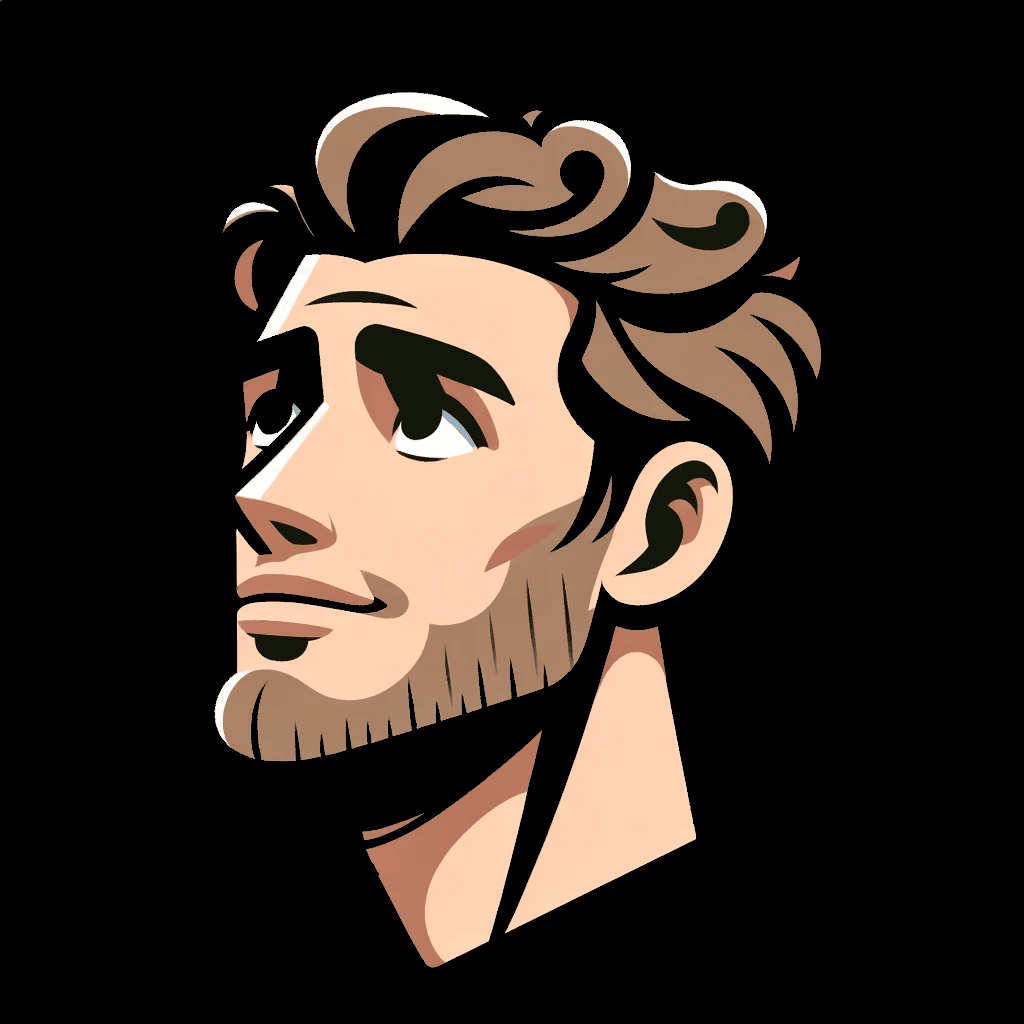
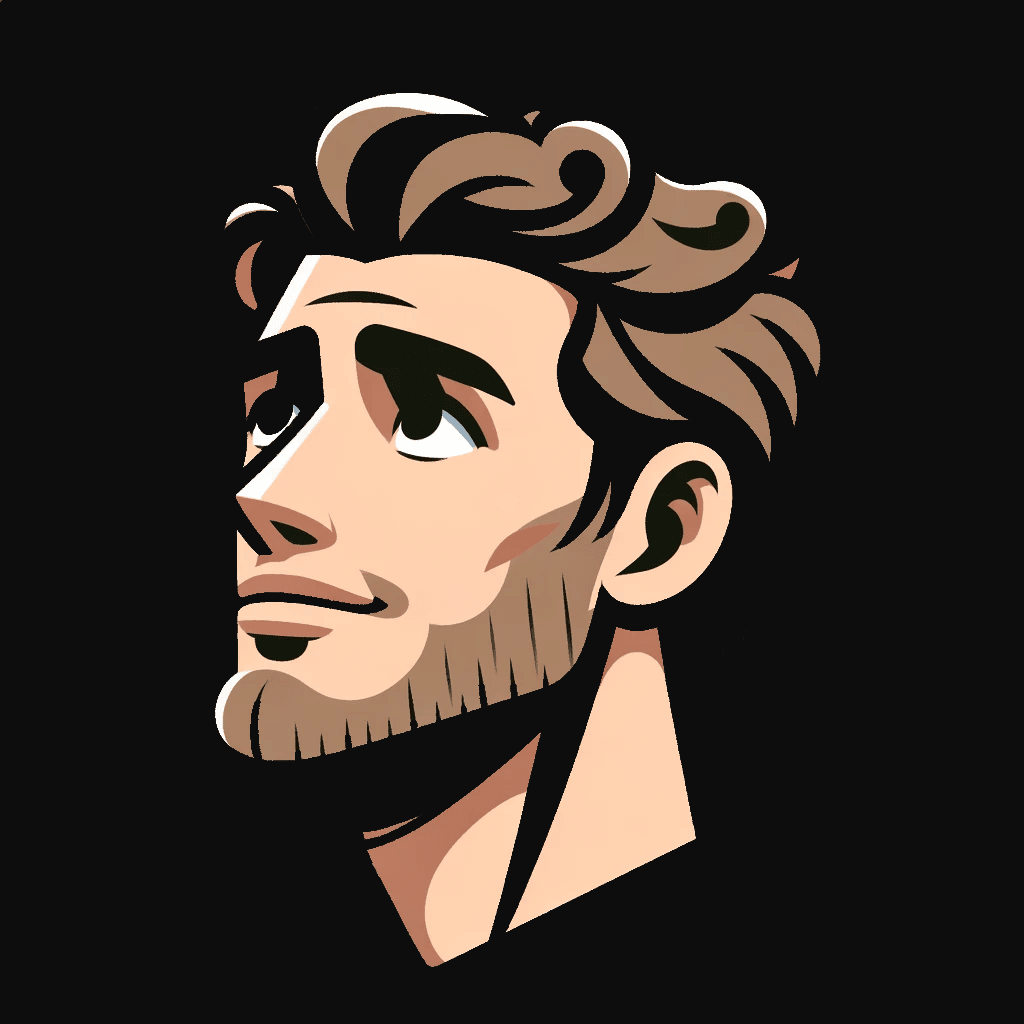
fixed shifting content on buttons bug, compressed images

Changed region(s): [[0.375, 0.6875, 0.4062, 0.7188]]

diff --git a/portfolio_stephanos/src/app/page.js b/portfolio_stephanos/src/app/page.js
@@ -7,11 +7,11 @@ import {
   CodeOutlined,
   ProfileOutlined,
   MailFilled,
-  GithubFilled,
-  LinkedinFilled,
   HomeFilled,
-  ProjectOutlined
+  ProjectOutlined,
 } from "@ant-design/icons";
+import { siLinkedin, siGithub } from "simple-icons";
+import createColoredSvgUrl from "@/utils/coloredSvg";
 
 export default function App() {
   const [current, setCurrent] = useState("home");
@@ -43,89 +43,97 @@ export default function App() {
   };
 
   return (
-    <div className="p-20 bg-[#000000] flex justify-center items-center">
-      <div className="w-10/12 p-6 shadow-2xl flex flex-col justify-center">
+    <div className="p-20 bg-[#0d0d0d] flex justify-center items-center">
+      <div className="w-2/3 p-6 shadow-2xl flex flex-col justify-center">
         <div className="flex flex-col">
           <NavBar changeTab={changeTab} />
 
           <div className="flex flex-row">
-            <Sidebar/>
-            <div className={`content-animate ${animate ? "content-exit-active" : ""} w-full`}>
+            <Sidebar />
+            <div
+              className={`content-animate ${
+                animate ? "content-exit-active" : ""
+              } w-full`}
+            >
               {renderContent()}
             </div>
           </div>
-
-
         </div>
-
       </div>
     </div>
   );
 }
 
-const NavBar = ({ changeTab }) => {
-  return (
-    <div className="flex flex-row h-10">
-      <div
-        className="text-3xl cursor-pointer w-1/12"
-        onClick={() => changeTab('home')}
-      >
-        <HomeFilled />
-      </div>
-      <a
-        href="mailto:ioannoustephanos2002@gmail.com" // Using mailto protocol
-        className="text-sm bg-[#000000] text-white px-1.5 ml-8 h-8 flex items-center justify-center gap-2 button-hover ml-10"
-        style={{ borderRadius: '0', textDecoration: 'none' }}
-      >
-        <MailFilled />
-        ioannoustephanos2002@gmail.com
-      </a>
-      <div className="flex flex-row gap-0.5 ml-auto">
-        <NavbarButton icon={ProfileOutlined} onClick={() => changeTab('experience')}>Experience</NavbarButton>
-        <NavbarButton icon={CodeOutlined} onClick={() => changeTab('tech')}>Tech</NavbarButton>
-        {/* <NavbarButton icon={ProjectOutlined} onClick={() => changeTab('projects')}>Projects</NavbarButton> */}
-      </div>
-    </div>
-  );
-};
-
-const Sidebar = () => {
-  return (
-    <div className="w-1/12 flex flex-col gap-3 h-full">
-      <a
-        href="https://www.linkedin.com/in/stephanos-ioannou-a6b41a25b/"
-        target="_blank"
-        className="text-3xl mt-72"
-      >
-        <LinkedinFilled />
-      </a>
-      <a
-        href="https://github.com/Stephanos2911"
-        target="_blank"
-        className="text-3xl"
-      >
-        <GithubFilled />
-      </a>
-    </div>
-  );
-};
-
-const Projects = () => {
-  return (
-    <div>
-    </div>
-  );
-};
-
-const NavbarButton = ({ onClick, icon: Icon, children, className }) => {
-  return (
-    <button
-      onClick={onClick}
-      className={`bg-[#000000] text-base text-white px-1.5 h-8 flex items-center justify-center gap-2 button-hover ${className}`}
-      style={{ borderRadius: '0' }}
+const NavBar = ({ changeTab }) => (
+  <div className="flex flex-row">
+    <div
+      className="text-3xl cursor-pointer w-1/12 flex justify-center items-center"
+      onClick={() => changeTab("home")}
+      style={{ width: "1.75rem", height: "1.75rem" }} // Ensure consistent dimensions
     >
-      {Icon && <Icon />}
-      {children}
-    </button>
-  );
-};
+      <HomeFilled />
+    </div>
+    <a
+      href="mailto:ioannoustephanos2002@gmail.com" // Using mailto protocol
+      className="text-sm bg-[#0d0d0d] text-white px-1.5 ml-24 h-8 flex items-center justify-center gap-2 button-hover"
+    >
+      <MailFilled />
+      ioannoustephanos2002@gmail.com
+    </a>
+
+    <div className="flex flex-row gap-0.5 ml-auto">
+      <NavbarButton
+        icon={ProfileOutlined}
+        onClick={() => changeTab("experience")}
+      >
+        Experience
+      </NavbarButton>
+      <NavbarButton icon={CodeOutlined} onClick={() => changeTab("tech")}>
+        Tech
+      </NavbarButton>
+      {/* <NavbarButton icon={ProjectOutlined} onClick={() => changeTab('projects')}>Projects</NavbarButton> */}
+    </div>
+  </div>
+);
+
+const Sidebar = () => (
+  <div className="w-1/12 flex flex-col gap-4 h-full">
+    <a
+      href="https://www.linkedin.com/in/stephanos-ioannou-a6b41a25b/"
+      target="_blank"
+      className="text-3xl mt-72"
+    >
+      <img
+        key={"linkedin"}
+        className="w-7 h-7" // Tailwind CSS for width and height 30px
+        src={createColoredSvgUrl(siLinkedin, "#ffffff")}
+        alt={`LinkedIn Logo`}
+      />
+    </a>
+    <a
+      href="https://github.com/Stephanos2911"
+      target="_blank"
+      className="text-3xl"
+    >
+      <img
+        key={"github"}
+        className="w-7 h-7" // Tailwind CSS for width and height 30px
+        src={createColoredSvgUrl(siGithub, "#ffffff")}
+        alt={`Github Logo`}
+      />
+    </a>
+  </div>
+);
+
+const Projects = () => <div></div>;
+
+const NavbarButton = ({ onClick, icon: Icon, children, className = "" }) => (
+  <button
+    onClick={onClick}
+    className={`bg-[#0d0d0d] text-base text-white px-1.5 h-8 flex items-center justify-center gap-2 button-hover ${className}`}
+    style={{ borderRadius: "0" }}
+  >
+    {Icon && <Icon />}
+    {children}
+  </button>
+);

diff --git a/portfolio_stephanos/src/app/globals.css b/portfolio_stephanos/src/app/globals.css
@@ -20,8 +20,9 @@
 
 body {
   font-family: 'Arial', sans-serif;
-  background-color: #000000;
+  background-color: #0d0d0d;
   color: #ffff;
+  overflow-y: scroll;
 }
 
 .button-hover {
@@ -29,7 +30,7 @@ body {
 }
 
 .button-hover:hover {
-  background-color: var(--green);
+  background-color: #008080;
   transform: rotate(-5deg) scale(1.05); /* Tilt and zoom */
 }
 
@@ -191,12 +192,13 @@ body {
 
 
 .job-entry {
-  transition: transform 0.3s ease;
+  transition: transform 0.3s ease, background-color 0.3s ease, color 0.3s ease;
+  will-change: transform, background-color, color; /* Ensures smooth animation */
 }
 
 
 .JobEntryContainer:hover .job-entry{
-  background-color: rgba(0, 0, 0, 0.1); /* Apply gray modal overlay to all elements */
+  background-color: #0d0d0d;
   color: #666;
   
 }
@@ -213,9 +215,10 @@ body {
 }
 
 .JobEntryContainer .job-entry:hover{
-  background-color:  #1a1d26;
+  background-color:  #1a1a1a;
   color: white;
   transform: scale(1.01);
+  text-shadow: none;
 }
 
 /* Ensures all job-entry elements have a consistent grayish look on hover of the container, excluding the one being directly hovered */

diff --git a/portfolio_stephanos/src/app/home.js b/portfolio_stephanos/src/app/home.js
@@ -14,8 +14,8 @@ const HomeSection = () => {
                 <h3 className="fadeInUp h3FadeInUp mt-12 text-sm">Stephanos Ioannou, Junior Software Developer from Rotterdam, the Netherlands dedicated to crafting efficient and future-proof software solutions. With a keen interest in modern technologies, I am continuously developing my skills to build innovative and robust applications.</h3>
             </div>
 
-            <div className="w-full flex justify-center">
-                <Image src={HomeImage} priority={true} alt="Drawing of Stephanos" className=''></Image>
+            <div className="w-full flex justify-center ">
+                <Image src={HomeImage} width={1024} height={1024} priority={true} alt="Drawing of Stephanos" className=''></Image>
             </div>
         </div>
     );

diff --git a/portfolio_stephanos/src/app/experience.js b/portfolio_stephanos/src/app/experience.js
@@ -93,7 +93,7 @@ const ExperienceSection = () => {
 
 const JobEntry = ({ period, position, company, link, description, technologies }) => {
     return (
-        <a href={link} target="_blank" className="job-entry shadow-md text-white group">
+        <a href={link} target="_blank" className="job-entry text-white group">
             <div className="flex flex-row m-4">
                 <div className="w-1/4 flex justify-center">
                     <h2 className="text-xs font-medium mt-1">{period}</h2>
